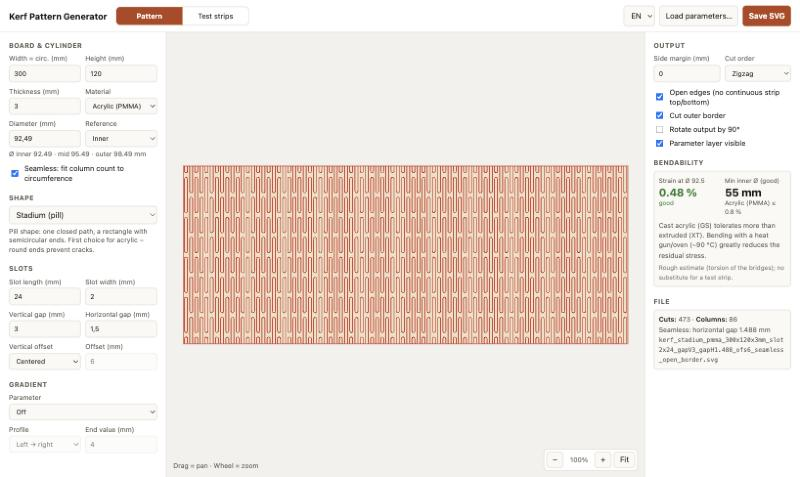
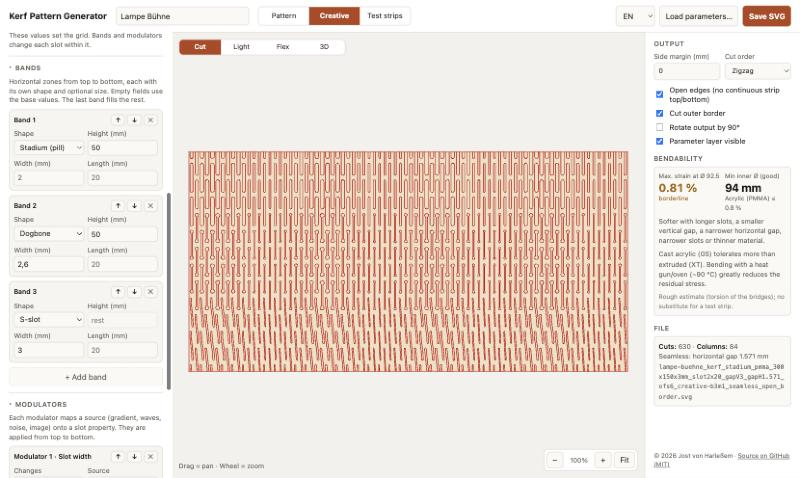
Add 3D preview with bend slider and lamp, refresh screenshots
- 3D view renders the board as a bent plane with the cut pattern as an
  alpha mask; Bend goes from flat to a closed cylinder, an optional lamp
  inside shines through. three.js is loaded on first use.
- Waves default to 0° so they run around the circumference.
- README: new creative and 3D screenshots.

diff --git a/index.html b/index.html
@@ -120,7 +120,17 @@
   #stage { position: absolute; left: 0; top: 0; }
   #stage svg { display: block; overflow: visible; }
   #stage svg .cuts *, #stage svg .boards * { vector-effect: non-scaling-stroke; }
-  .viewseg { position: absolute; left: 12px; top: 12px; width: 240px; }
+  .viewseg { position: absolute; left: 12px; top: 12px; width: 300px; z-index: 2; }
+  #three { position: absolute; inset: 0; }
+  #three canvas { display: block; width: 100%; height: 100%; cursor: grab; }
+  .threemsg { position: absolute; inset: 0; display: grid; place-items: center; color: var(--muted); font-size: 13px; pointer-events: none; }
+  .bendctl {
+    position: absolute; left: 12px; top: 56px; z-index: 2; display: flex; gap: 14px; align-items: center;
+    background: var(--panel); border: 1px solid var(--line); border-radius: 8px; padding: 6px 10px;
+  }
+  .bendctl > label:first-child { flex-direction: row; align-items: center; gap: 8px; color: var(--text); font-size: 12px; }
+  .bendctl input[type=range] { width: 150px; accent-color: var(--accent); }
+  .bendctl output { min-width: 38px; font-variant-numeric: tabular-nums; font-size: 12px; color: var(--muted); }
   .viewseg label { padding: 5px; font-size: 12px; }
   .zoom {
     position: absolute; right: 12px; bottom: 12px; display: flex; gap: 4px; align-items: center;
@@ -260,8 +270,14 @@
     <label><input type="radio" name="view" value="cut" checked> <span data-i18n="view.cut"></span></label>
     <label><input type="radio" name="view" value="light"> <span data-i18n="view.light"></span></label>
     <label><input type="radio" name="view" value="flex"> <span data-i18n="view.flex"></span></label>
+    <label><input type="radio" name="view" value="3d"> <span data-i18n="view.3d"></span></label>
   </div>
-  <div class="hint" data-i18n="hint"></div>
+  <div id="three" hidden><div class="threemsg" id="threeMsg"></div></div>
+  <div class="bendctl" id="bendCtl" hidden>
+    <label><span data-i18n="bend"></span><input type="range" id="bend" min="0" max="100" value="100"><output id="bendVal">100 %</output></label>
+    <label class="check"><input type="checkbox" id="lampOn" checked> <span data-i18n="lamp"></span></label>
+  </div>
+  <div class="hint" id="hint"></div>
   <div class="zoom">
     <button id="zOut" data-i18n-aria="zoomOut">−</button>
     <span id="zLabel">100%</span>
@@ -330,8 +346,9 @@ const STR = {
     'sec.test': 'Test strips', 'testParam': 'Varied parameter', 'testFrom': 'From (mm)', 'testTo': 'To (mm)',
     'testCount': 'Count', 'testSize': 'Strip W × H (mm)',
     'testDesc': 'All other values come from the fields above. Each strip gets an engraved label on the left.',
-    'hint': 'Drag = pan · Wheel = zoom', 'zoomOut': 'Zoom out', 'zoomIn': 'Zoom in', 'fit': 'Fit',
-    'view.aria': 'Preview', 'view.cut': 'Cut', 'view.light': 'Light', 'view.flex': 'Flex',
+    'hint': 'Drag = pan · Wheel = zoom', 'hint3d': 'Drag = rotate · Right-drag = pan · Wheel = zoom', 'zoomOut': 'Zoom out', 'zoomIn': 'Zoom in', 'fit': 'Fit',
+    'view.aria': 'Preview', 'view.cut': 'Cut', 'view.light': 'Light', 'view.flex': 'Flex', 'view.3d': '3D',
+    'bend': 'Bend', 'lamp': 'Lamp on', 'three.loading': 'Loading 3D…', 'three.fail': 'Could not load the 3D library (offline?).',
     'sec.output': 'Output', 'marginX': 'Side margin (mm)', 'order': 'Cut order',
     'ord.zigzag': 'Zigzag', 'ord.skip': 'Every other column first',
     'openEdges': 'Open edges (no continuous strip top/bottom)', 'border': 'Cut outer border',
@@ -431,8 +448,9 @@ const STR = {
     'sec.test': 'Teststreifen', 'testParam': 'Variierter Parameter', 'testFrom': 'Von (mm)', 'testTo': 'Bis (mm)',
     'testCount': 'Anzahl', 'testSize': 'Streifen B × H (mm)',
     'testDesc': 'Alle anderen Werte kommen aus den Feldern oben. Jeder Streifen bekommt links eine gravierte Beschriftung.',
-    'hint': 'Ziehen = verschieben · Mausrad = zoomen', 'zoomOut': 'Verkleinern', 'zoomIn': 'Vergrößern', 'fit': 'Einpassen',
-    'view.aria': 'Vorschau', 'view.cut': 'Schnitt', 'view.light': 'Licht', 'view.flex': 'Flex',
+    'hint': 'Ziehen = verschieben · Mausrad = zoomen', 'hint3d': 'Ziehen = drehen · Rechts ziehen = verschieben · Mausrad = zoomen', 'zoomOut': 'Verkleinern', 'zoomIn': 'Vergrößern', 'fit': 'Einpassen',
+    'view.aria': 'Vorschau', 'view.cut': 'Schnitt', 'view.light': 'Licht', 'view.flex': 'Flex', 'view.3d': '3D',
+    'bend': 'Biegung', 'lamp': 'Lampe an', 'three.loading': '3D wird geladen…', 'three.fail': '3D-Bibliothek konnte nicht geladen werden (offline?).',
     'sec.output': 'Ausgabe', 'marginX': 'Rand l/r (mm)', 'order': 'Schnittreihenfolge',
     'ord.zigzag': 'Zickzack', 'ord.skip': 'Jede 2. Spalte zuerst',
     'openEdges': 'Ränder offen (kein durchgehender Steg oben/unten)', 'border': 'Außenkontur mitschneiden',
@@ -1300,6 +1318,7 @@ function renderCreativeUI() {
     } else if (m.source === 'wave') {
       h += numField('mods', i, 'angle', t('mod.angle'), m.angle, 'step="15"') + numField('mods', i, 'period', t('mod.period'), m.period, 'min="1" step="5"');
       h += numField('mods', i, 'phase', t('mod.phase'), m.phase, 'step="15"');
+      h += `<div class="desc span2">${esc(t('mod.angleHint'))}</div>`;
     } else if (m.source === 'noise') {
       h += numField('mods', i, 'scale', t('mod.scale'), m.scale, 'min="1" step="5"') + numField('mods', i, 'seed', t('mod.seed'), m.seed, 'step="1"');
     } else if (m.source === 'image') {
@@ -1318,6 +1337,8 @@ function creativeInput(e) {
   if (el.type === 'checkbox') item[k] = el.checked;
   else if (el.type === 'number') item[k] = el.value === '' ? null : parseFloat(el.value);
   else item[k] = el.value;
+  // waves along the height barely show between the rows; start them across the circumference
+  if (k === 'source' && item.source === 'wave' && item.angle === 90) item.angle = 0;
   if (el.hasAttribute('data-rebuild')) renderCreativeUI();
   render();
 }
@@ -1359,7 +1380,8 @@ const view = $('view'), stage = $('stage');
 let zoom = 1, panX = 0, panY = 0, last = null;
 let viewMode = 'cut';
 try { viewMode = localStorage.getItem('kerf-view') || 'cut'; } catch (e) {}
-document.querySelector(`input[name=view][value=${['cut', 'light', 'flex'].includes(viewMode) ? viewMode : 'cut'}]`).checked = true;
+if (!['cut', 'light', 'flex', '3d'].includes(viewMode)) viewMode = 'cut';
+document.querySelector(`input[name=view][value=${viewMode}]`).checked = true;
 
 function previewInner(p, doc, vm) {
   const boards = doc.boards.map(b => `<rect x="${b.x}" y="${b.y}" width="${b.w}" height="${b.h}"/>`).join('');
@@ -1400,12 +1422,170 @@ function render() {
     return;
   }
   const vm = p.mode === 'test' ? 'cut' : viewMode;
+  const is3d = vm === '3d';
   view.classList.toggle('dark', vm === 'light');
+  view.classList.toggle('is3d', is3d);
+  $('three').hidden = $('bendCtl').hidden = !is3d;
+  stage.hidden = is3d;
+  $('zLabel').hidden = $('zIn').hidden = $('zOut').hidden = is3d;
+  $('hint').textContent = t(is3d ? 'hint3d' : 'hint');
+  renderInfo(p, doc);
+  if (is3d) { show3d(p, doc); return; }
   const [W, H] = outerSize(doc);
   stage.innerHTML = `<svg xmlns="http://www.w3.org/2000/svg" viewBox="0 0 ${f(W)} ${f(H)}"><g${rotTransform(doc)}>${previewInner(p, doc, vm)}</g></svg>`;
-  renderInfo(p, doc);
   layout();
 }
+
+// ---------------------------------------------------------------- 3D preview
+// three.js is loaded on first use. The board is a plane bent around the
+// vertical axis (bend 100 % = closed cylinder); the cut pattern becomes an
+// alpha mask, so slots are real holes and an optional lamp shines through.
+const THREE_BASE = 'https://cdn.jsdelivr.net/npm/three@0.147.0/';
+const MAT_COLORS = { pmma: 0xf3efe6, petg: 0xe6ecef, plywood: 0xd8b98a, mdf: 0xa98563 };
+let three = null, threeLoading = null, maskToken = 0, maskTimer = null;
+let view3d = { bend: 100, lamp: true };
+try { Object.assign(view3d, JSON.parse(localStorage.getItem('kerf-3d')) || {}); } catch (e) {}
+$('bend').value = view3d.bend; $('lampOn').checked = view3d.lamp;
+
+function loadScript(src) {
+  return new Promise((res, rej) => {
+    const el = document.createElement('script');
+    el.src = src; el.onload = res; el.onerror = rej;
+    document.head.append(el);
+  });
+}
+function ensureThree() {
+  if (!threeLoading) threeLoading = (async () => {
+    await loadScript(THREE_BASE + 'build/three.min.js');
+    await loadScript(THREE_BASE + 'examples/js/controls/OrbitControls.js');
+    initThree();
+  })();
+  return threeLoading;
+}
+function initThree() {
+  const el = $('three');
+  const renderer = new THREE.WebGLRenderer({ antialias: true, preserveDrawingBuffer: true });
+  renderer.setPixelRatio(Math.min(2, window.devicePixelRatio || 1));
+  el.prepend(renderer.domElement);
+  const scene = new THREE.Scene();
+  const camera = new THREE.PerspectiveCamera(35, 1, 1, 20000);
+  const controls = new THREE.OrbitControls(camera, renderer.domElement);
+  controls.enableDamping = true;
+  const hemi = new THREE.HemisphereLight(0xffffff, 0x555555, 0.9);
+  const dir = new THREE.DirectionalLight(0xffffff, 0.6);
+  dir.position.set(0.6, 1, 1.4);
+  const lamp = new THREE.PointLight(0xffb45e, 2.4, 0, 1);
+  const bulb = new THREE.Mesh(new THREE.SphereGeometry(1, 24, 16), new THREE.MeshBasicMaterial({ color: 0xffe6b0 }));
+  const mat = new THREE.MeshStandardMaterial({ side: THREE.DoubleSide, alphaTest: 0.5, roughness: 0.55, metalness: 0 });
+  const mesh = new THREE.Mesh(new THREE.BufferGeometry(), mat);
+  scene.add(hemi, dir, lamp, bulb, mesh);
+  three = { renderer, scene, camera, controls, hemi, dir, lamp, bulb, mat, mesh, size: '' };
+  new ResizeObserver(resize3d).observe(el);
+  resize3d();
+  (function loop() {
+    requestAnimationFrame(loop);
+    if (!el.hidden) { controls.update(); renderer.render(scene, camera); }
+  })();
+}
+function resize3d() {
+  if (!three) return;
+  const r = $('three').getBoundingClientRect();
+  if (!r.width || !r.height) return;
+  three.renderer.setSize(r.width, r.height, false);
+  three.camera.aspect = r.width / r.height;
+  three.camera.updateProjectionMatrix();
+}
+// Plane W × H bent so its width wraps bend·360° around a vertical axis.
+// Returns the cylinder axis position (z) for the lamp.
+function bendGeometry(W, H, bend) {
+  const g = new THREE.PlaneGeometry(W, H, 240, 1), pos = g.attributes.position;
+  const theta = bend * 2 * Math.PI;
+  let axisZ = -H;
+  if (theta > 1e-4) {
+    const R = W / theta;
+    for (let i = 0; i < pos.count; i++) {
+      const phi = pos.getX(i) / R;
+      pos.setXYZ(i, R * Math.sin(phi), pos.getY(i), R * Math.cos(phi) - R);
+    }
+    axisZ = -R;
+  }
+  g.computeVertexNormals();
+  three.mesh.geometry.dispose();
+  three.mesh.geometry = g;
+  return Math.max(axisZ, -Math.max(W, H));
+}
+function apply3dScene(p, doc, refit) {
+  const W = doc.w, H = doc.h, bend = view3d.bend / 100;
+  $('bendVal').textContent = view3d.bend + ' %';
+  const axisZ = bendGeometry(W, H, bend);
+  const lampOn = view3d.lamp;
+  three.scene.background = new THREE.Color(lampOn ? 0x0f0d0c : 0xe8e5de);
+  three.hemi.intensity = lampOn ? 0.22 : 0.9;
+  three.dir.intensity = lampOn ? 0.08 : 0.6;
+  three.lamp.intensity = lampOn ? 2.4 : 0;
+  three.lamp.position.set(0, 0, axisZ);
+  three.bulb.visible = lampOn;
+  three.bulb.position.set(0, 0, axisZ);
+  three.bulb.scale.setScalar(Math.max(2, Math.min(W / Math.PI, H) * 0.06));
+  three.mat.color.setHex(MAT_COLORS[p.material] || 0xeeeeee);
+  three.mat.emissive.setHex(lampOn && p.material === 'pmma' ? 0x3a2410 : 0x000000);
+  const size = `${W}x${H}`;
+  if (refit || three.size !== size) {
+    // fit to the bent shape's actual extent
+    three.size = size;
+    const g = three.mesh.geometry;
+    g.computeBoundingBox();
+    const bb = g.boundingBox, cz = (bb.min.z + bb.max.z) / 2;
+    const tanV = Math.tan(three.camera.fov * Math.PI / 360);
+    const fitV = (H / 2) / tanV, fitH = ((bb.max.x - bb.min.x) / 2) / (tanV * three.camera.aspect);
+    const d = Math.max(fitV, fitH) * 1.25 + (bb.max.z - cz);   // measured from the front-most surface
+    three.controls.target.set(0, 0, cz);
+    three.camera.position.set(d * 0.25, H * 0.25, cz + d);
+    three.camera.near = d / 100; three.camera.far = d * 20;
+    three.camera.updateProjectionMatrix();
+  }
+}
+// Rasterise the cuts (black on white) into the alpha mask, ≤ 4096 px.
+function updateMask(doc) {
+  const token = ++maskToken;
+  const W = doc.w, H = doc.h, s = Math.min(10, 4096 / W, 4096 / H);
+  const svg = `<svg xmlns="http://www.w3.org/2000/svg" width="${Math.round(W * s)}" height="${Math.round(H * s)}" viewBox="0 0 ${W} ${H}">` +
+    `<rect width="${W}" height="${H}" fill="#fff"/><g fill="#000" stroke="#000" stroke-width="0.25">${doc.cuts.join('')}</g></svg>`;
+  const url = URL.createObjectURL(new Blob([svg], { type: 'image/svg+xml' }));
+  const im = new Image();
+  im.onload = () => {
+    URL.revokeObjectURL(url);
+    if (token !== maskToken) return;
+    const cv = document.createElement('canvas');
+    cv.width = im.width; cv.height = im.height;
+    cv.getContext('2d').drawImage(im, 0, 0);
+    const tex = new THREE.CanvasTexture(cv);
+    tex.anisotropy = three.renderer.capabilities.getMaxAnisotropy();
+    if (three.mat.alphaMap) three.mat.alphaMap.dispose();
+    three.mat.alphaMap = tex;
+    three.mat.needsUpdate = true;
+  };
+  im.src = url;
+}
+function show3d(p, doc) {
+  $('threeMsg').textContent = three ? '' : t('three.loading');
+  ensureThree().then(() => {
+    $('threeMsg').textContent = '';
+    resize3d();
+    apply3dScene(p, doc, false);
+    clearTimeout(maskTimer);
+    maskTimer = setTimeout(() => updateMask(doc), 120);
+  }).catch(() => { $('threeMsg').textContent = t('three.fail'); threeLoading = null; });
+}
+function save3d() { try { localStorage.setItem('kerf-3d', JSON.stringify(view3d)); } catch (e) {} }
+$('bend').addEventListener('input', () => {
+  view3d.bend = +$('bend').value; save3d();
+  if (three && last) apply3dScene(last.p, last.doc, false);
+});
+$('lampOn').addEventListener('change', () => {
+  view3d.lamp = $('lampOn').checked; save3d();
+  if (three && last) apply3dScene(last.p, last.doc, false);
+});
 
 function renderInfo(p, doc) {
   const mat = MATERIALS[p.material], dm = midDiameter(p), matName = t('mat.' + p.material);
@@ -1478,16 +1658,20 @@ function setZoom(z, cx, cy) {
 
 $('zIn').onclick = () => setZoom(zoom * 1.4);
 $('zOut').onclick = () => setZoom(zoom / 1.4);
-$('zFit').onclick = () => { zoom = 1; panX = panY = 0; layout(); };
+$('zFit').onclick = () => {
+  if (view.classList.contains('is3d')) { if (three && last) apply3dScene(last.p, last.doc, true); return; }
+  zoom = 1; panX = panY = 0; layout();
+};
 view.addEventListener('wheel', e => {
   e.preventDefault();
+  if (view.classList.contains('is3d')) return;
   const r = view.getBoundingClientRect();
   setZoom(zoom * Math.exp(-e.deltaY * 0.0015), e.clientX - r.left, e.clientY - r.top);
 }, { passive: false });
 
 let drag = null;
 view.addEventListener('pointerdown', e => {
-  if (e.target.closest('.zoom, .viewseg')) return;
+  if (e.target.closest('.zoom, .viewseg, .bendctl') || view.classList.contains('is3d')) return;
   drag = { x: e.clientX - panX, y: e.clientY - panY };
   view.setPointerCapture(e.pointerId);
   view.classList.add('dragging');

diff --git a/README.md b/README.md
@@ -4,7 +4,9 @@ A browser tool for laser-cut kerf bending (living hinge) patterns, with a focus 
 
 **Live:** https://sonarkon.github.io/Kerf-Pattern-Generator/
 
-![Screenshot](screenshot.jpg)
+![Creative mode with bands and a wave modulator](screenshot.jpg)
+
+![3D preview: bent to a closed cylinder with the lamp on](screenshot-3d.jpg)
 
 ## Features
 
@@ -19,6 +21,7 @@ A browser tool for laser-cut kerf bending (living hinge) patterns, with a focus 
   - **Modulators**: linear gradient (any angle, optionally mirrored), radial, waves, noise or a greyscale **image** drive slot width, slot length, slot removal or a shape swap. They stack from top to bottom with adjustable strength.
   - The image is stored (downscaled) in the SVG metadata, so a design can be reloaded completely.
 - **Preview views**: *Cut*, *Light* (glowing slots on a dark board – how a lampshade will look) and *Flex* (per-slot strain heatmap: good / borderline / too high / rigid).
+- **3D preview**: the board as a 3D surface with the slots as real holes. A *Bend* slider goes from flat to a closed cylinder, an optional lamp inside shines through, and you can orbit and zoom. three.js is loaded only when the 3D view is opened.
 - **Bendability estimate**: strain in the twisting bridges for the target diameter, computed for every slot-to-slot link, plus the smallest recommended diameter per material (acrylic, PETG, plywood, MDF). It is a rough guide based on Saint-Venant torsion and does not replace a test cut.
 - **Test strips**: a set of coupons that vary one parameter, each with an engraved label (value and min. diameter).
 - **Cut order**: zigzag, or every other column first (less heat build-up, useful for acrylic).
